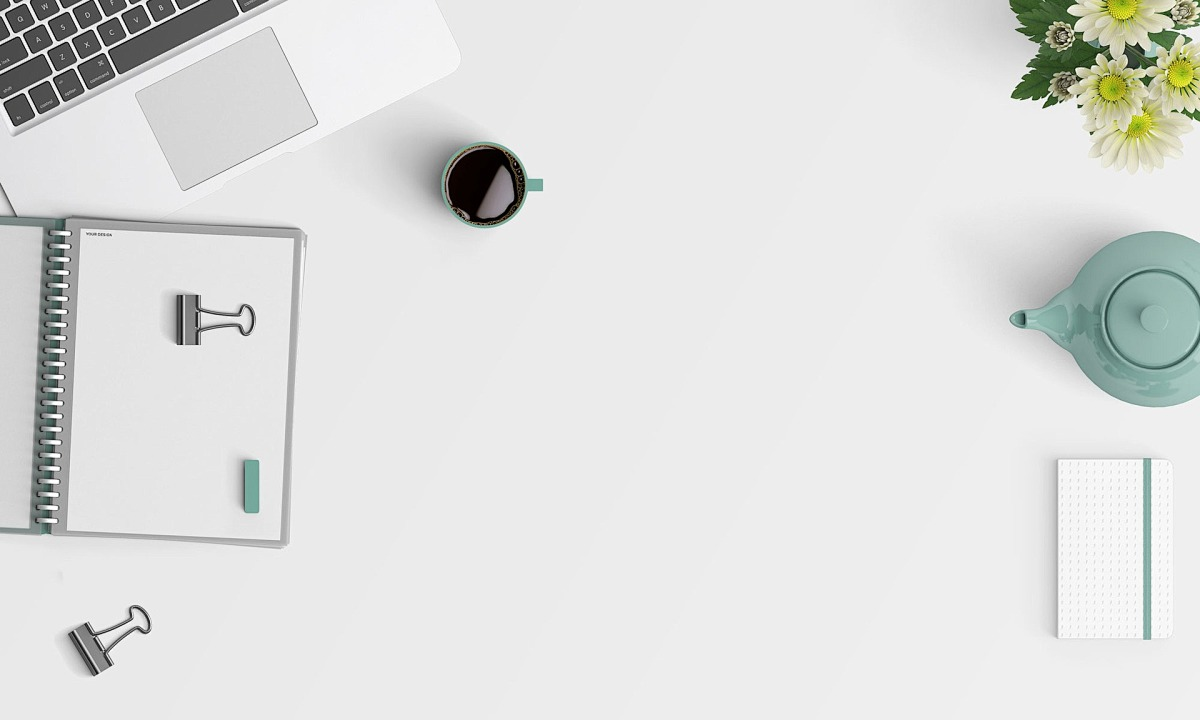
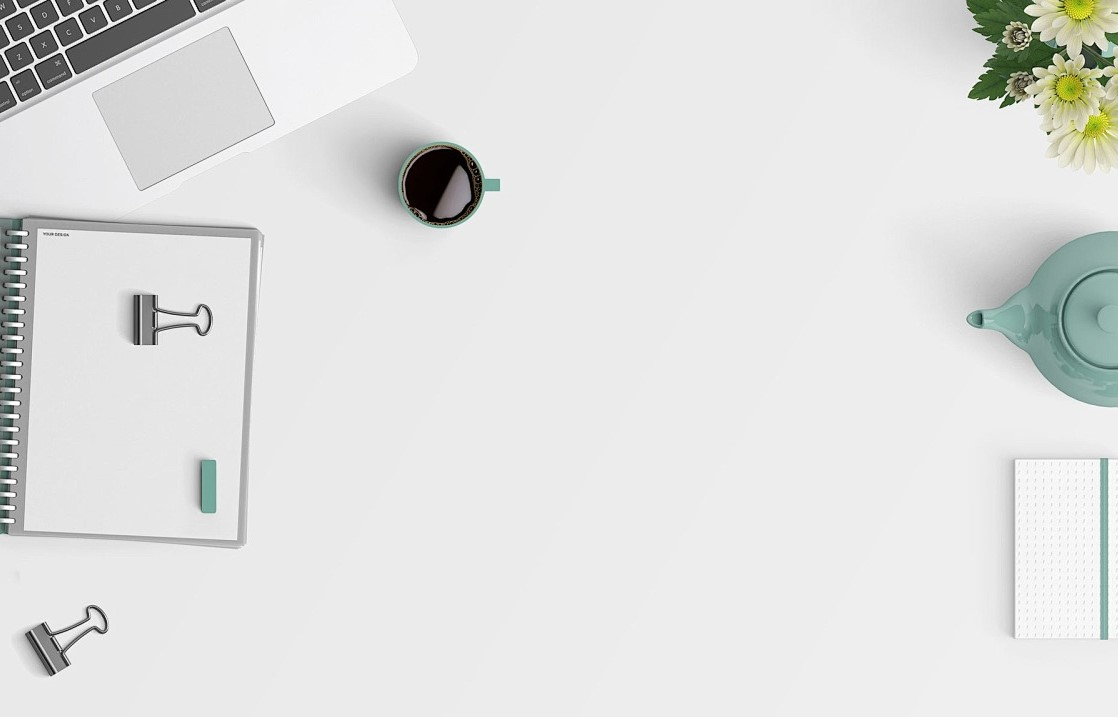
login page

diff --git a/frontend/src/components/LoginPage.vue b/frontend/src/components/LoginPage.vue
@@ -99,36 +99,41 @@ export default {
 html, body {
   margin: 0;
   padding: 0;
-  height: 100vh;
   width: 100vw;
+  height: 100vh;
   overflow: hidden;
 }
 
 .page-bg {
-  background-color: red;
-  width: auto;
+position: fixed;
+  top: 0;
+  left: 0;
+  width: 100vw;
   height: 100vh;
-  overflow: hidden;
-  /* background-image: url('../assets/background.jpeg'); */
-  background-size: cover;
+  background-image: url('../assets/background.jpeg');
+  background-size: 100% 100%;
   background-repeat: no-repeat;
   background-position: center;
   display: flex;
   align-items: center;
   justify-content: center;
+  overflow: hidden;
 }
+
 
 .login-container {
   max-width: 420px;
-  width: 90%; /* 确保不会超出屏幕宽度 */
-  padding: 3rem 2.5rem;
-  margin: 0 auto;
+  width: 90%;
+  max-height: 90vh;
+  overflow-y: auto;
+  padding: 2rem;
   background: linear-gradient(135deg, #eaf2ff, #ffffff);
   border-radius: 20px;
   box-shadow: 0 10px 25px rgba(0, 90, 255, 0.1);
   font-family: "Segoe UI", Tahoma, Geneva, Verdana, sans-serif;
-  transition: all 0.3s ease;
+  box-sizing: border-box;
 }
+
 
 
 

diff --git a/frontend/src/App.vue b/frontend/src/App.vue
@@ -9,11 +9,5 @@
 </script>
 
 <style>
-#app {
-  font-family: Avenir, Helvetica, Arial, sans-serif;
-  margin: 0;
-  padding: 0;
-  min-height: 100vh;
-  background-color: #f9f9f9;
-}
+
 </style>
